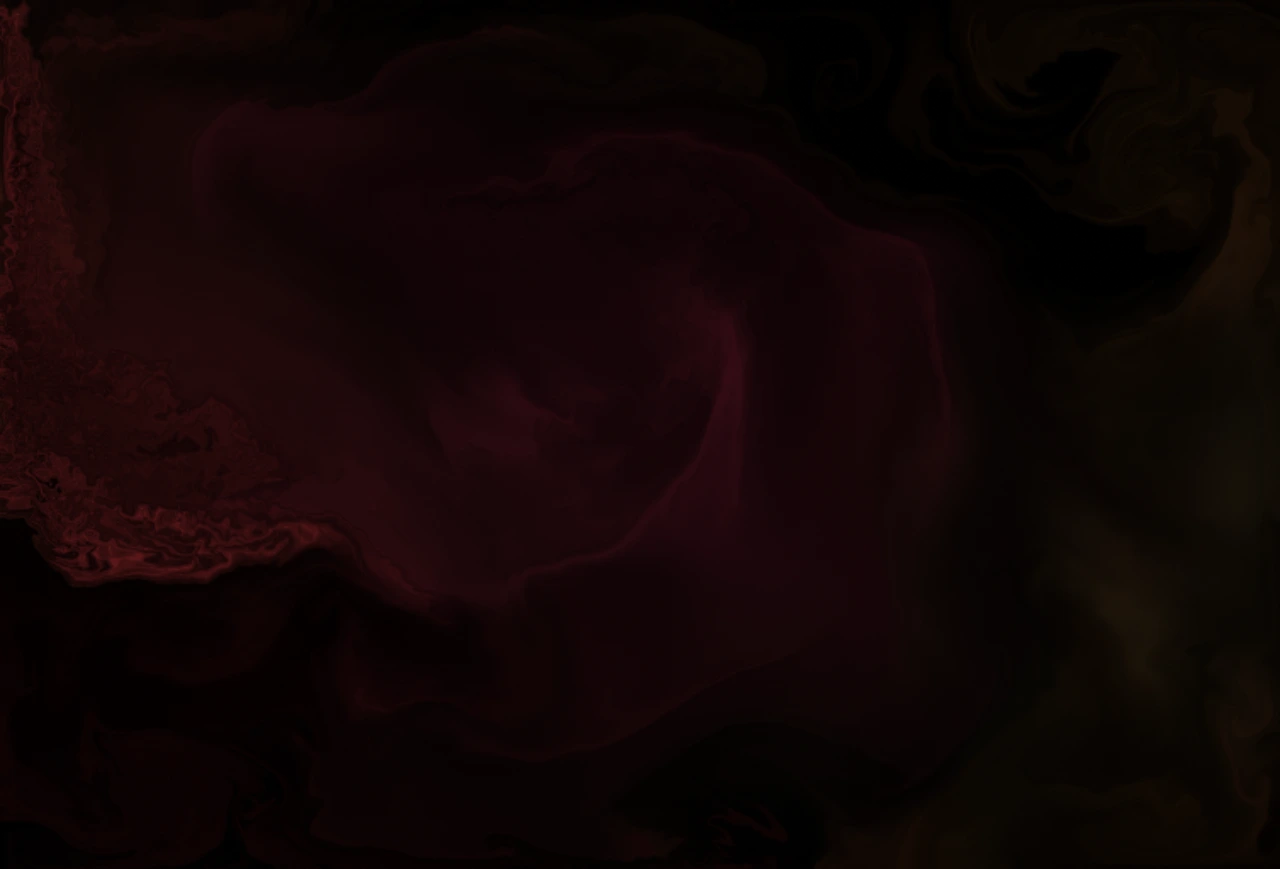
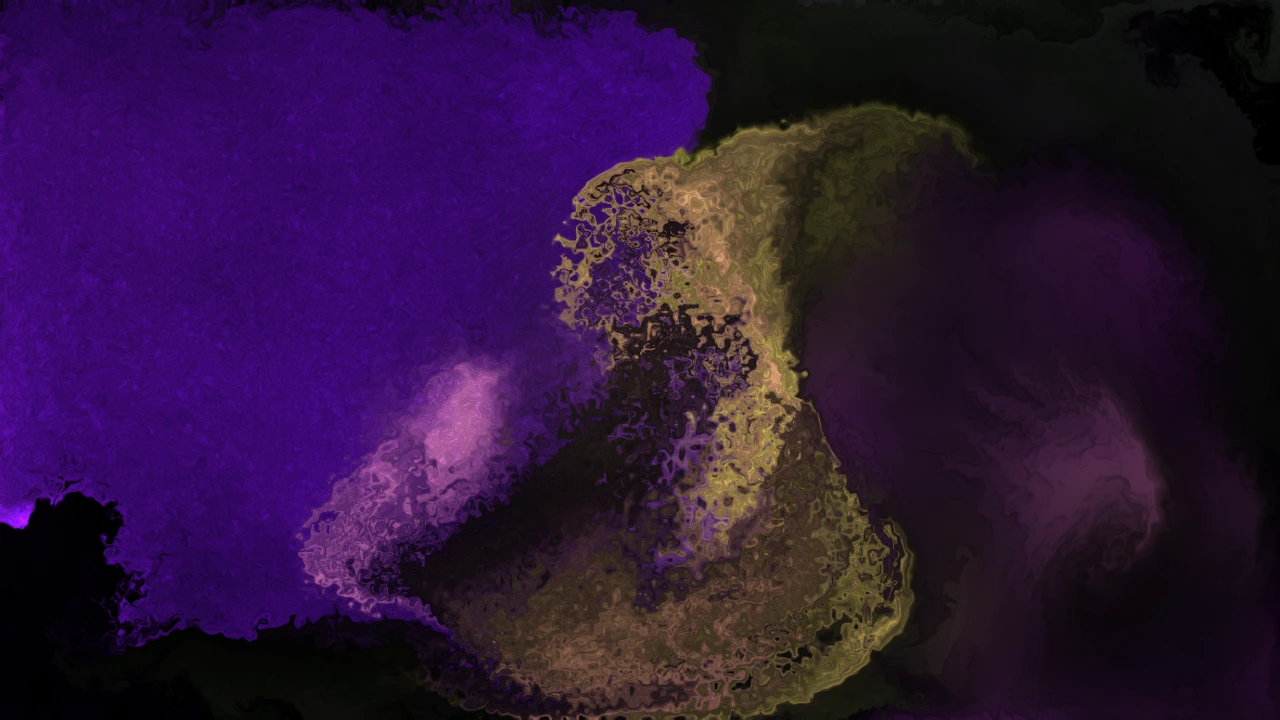
Replace the example frames with ones from the vocal stem
The previous stills came from a commercial track. These come from a dry vocal
stem with no drums at all, so nothing in the public repository derives from
music that is not ours to use.

They are also better, and rendered differently. The earlier ones were captured
from the live canvas, which needs the browser to be drawing — with the pane
hidden, requestAnimationFrame stops firing and every "capture" returned the
same frozen frame, scoring identically to three decimals. These are driven
through the offline export loop instead: no rAF, deterministic from the seed,
and therefore reproducible by anyone with the same audio.

Picked by the same measured scoring as before, now with a warm-up: a render
starts from an empty canvas, so a frame taken six to ten seconds in has the
dye the picture actually carries rather than the first wisps of it.

That the vocal stem produces the richest frames is worth noting — it is the
material with no percussion whatsoever, and the one the mapping was hardest to
get working.

diff --git a/README.md b/README.md
@@ -16,15 +16,16 @@ npm run dev     # http://localhost:5173
 Drag an audio file onto the window. Nothing is uploaded anywhere; decoding and analysis
 happen in your browser.
 
-![A frame from the visualizer: a bright ochre plume rising through deep ember reds against black](docs/example-3.webp)
+![A frame from the visualizer: a pale gold mass fringed with magenta and coral, veined with fine filigree](docs/example-1.webp)
 
 <p align="center">
-  <img src="docs/example-1.webp" width="49%" alt="Pale blue and scarlet dye folded through dark space, with gold plumes to the right" />
-  <img src="docs/example-2.webp" width="49%" alt="A deep crimson swirl filling the frame, edged with olive at the right" />
+  <img src="docs/example-2.webp" width="49%" alt="A violet cloud meeting an olive-gold plume across a dark frame" />
+  <img src="docs/example-3.webp" width="49%" alt="Deep reds and scarlet folded together, with a bright ember core at the left" />
 </p>
 
-<p align="center"><em>Three frames from one track. Every still is a real render — nothing was posed or
-retouched. The audio is not included; see <a href="#credit">Credit</a>.</em></p>
+<p align="center"><em>Three frames from a dry vocal stem — no drums at all. Each was rendered offline from
+the seed rather than screenshotted, so they are reproducible: the colour is the harmony, the
+height is pitch, and the filigree is the fluid resolving detail the sound put there.</em></p>
 
 ---
 
